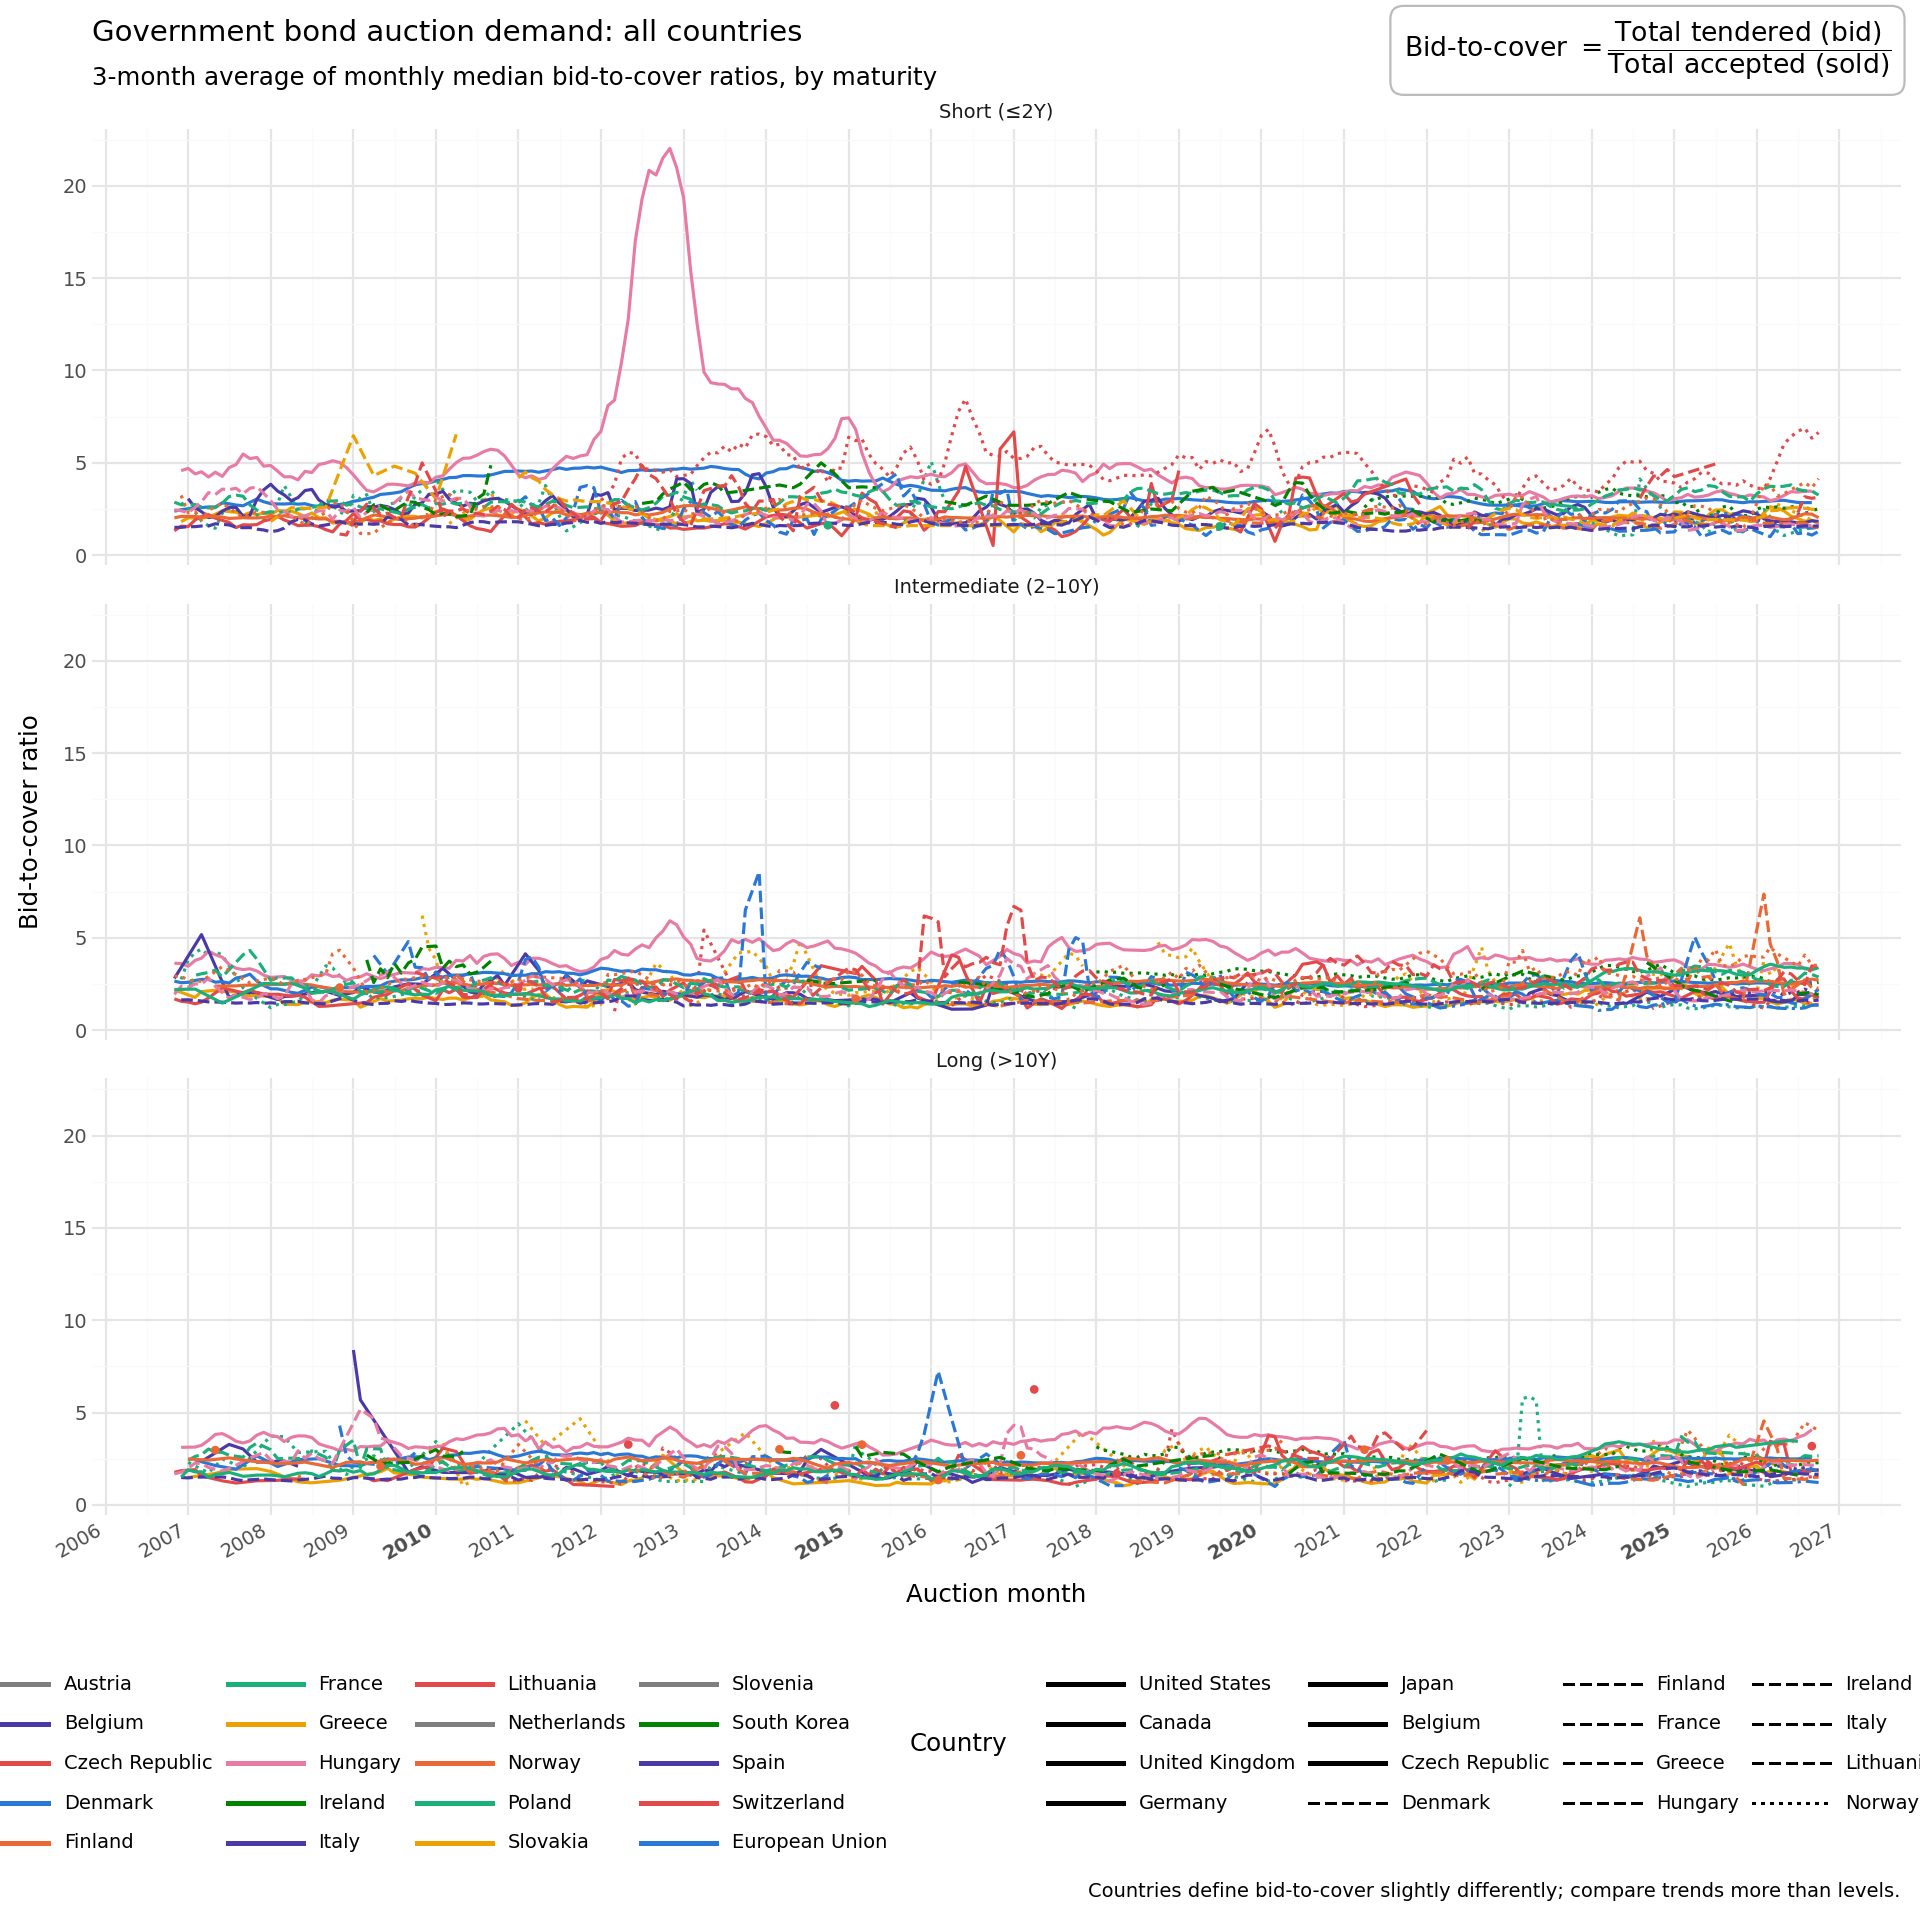
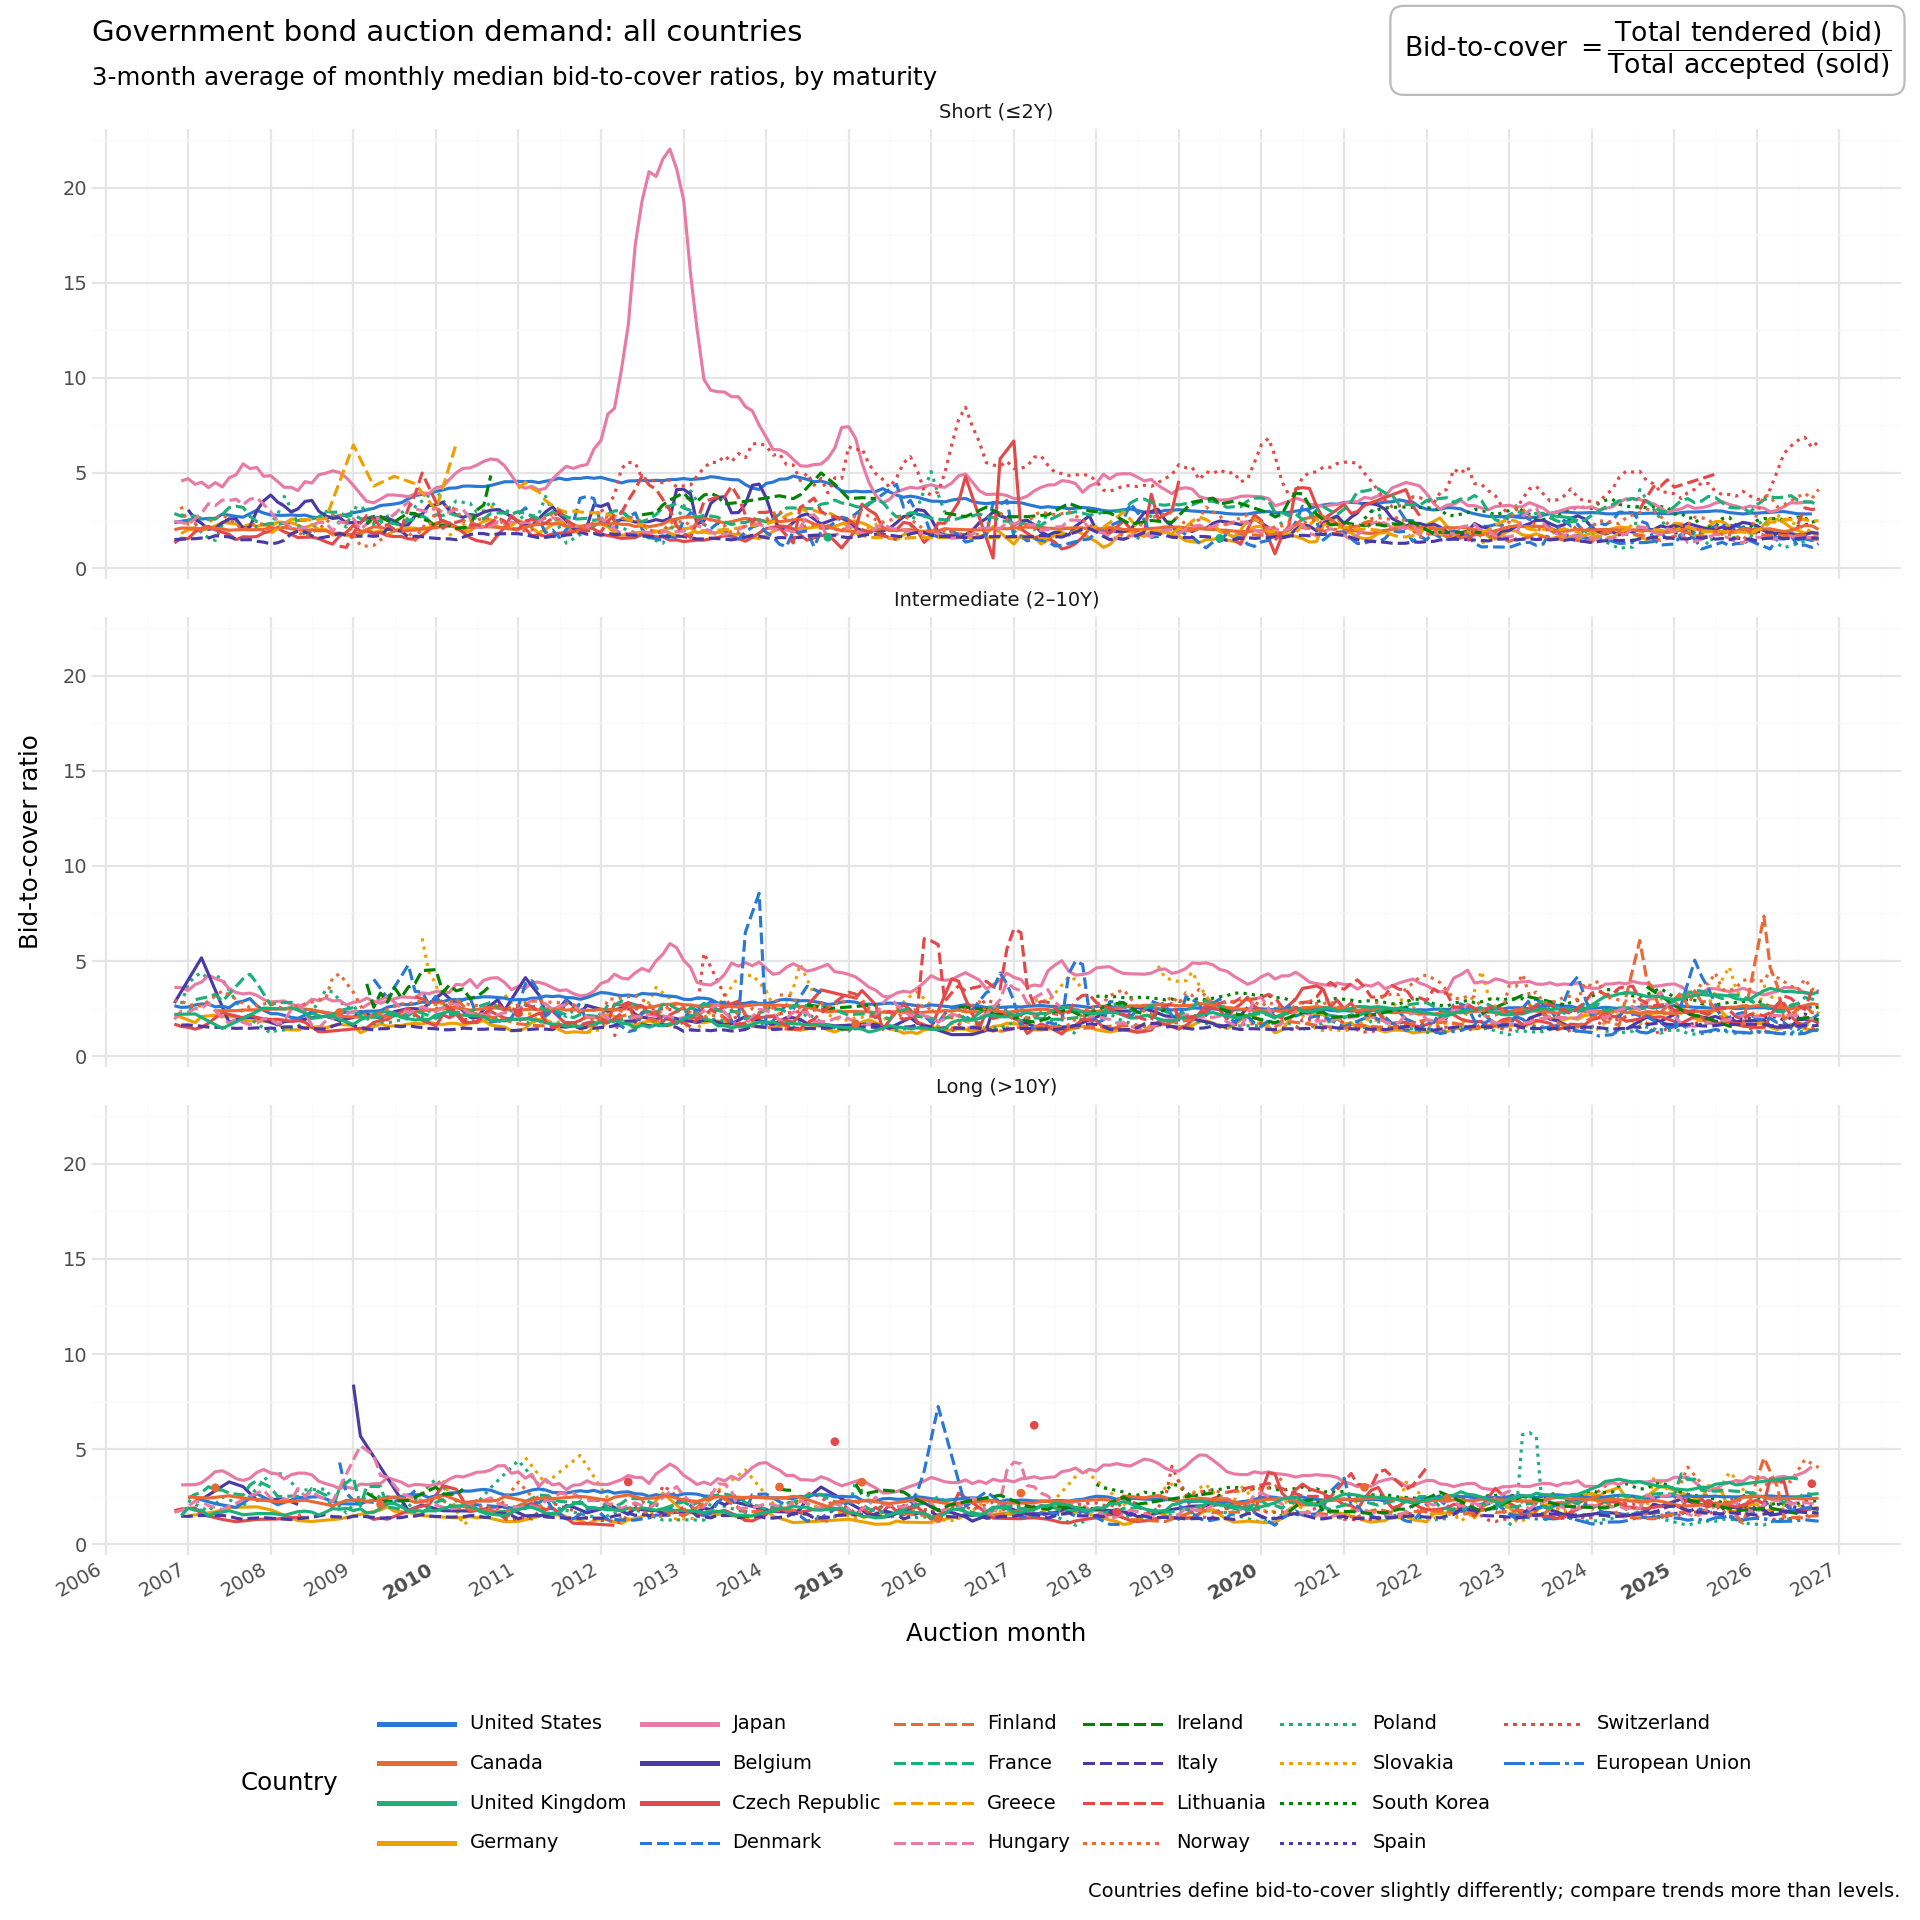
Fix the global bid-to-cover legend: one legend with each country's colour and line style, no countries missing or grey

diff --git a/common.py b/common.py
@@ -320,9 +320,14 @@ def line_chart(data, y, color, title, subtitle, ylab, caption, y_limits=None, fa
         data[color] = data[color].cat.remove_unused_categories()
         present = list(data[color].cat.categories)
         mapping = aes(x="month", y=y, color=color, linetype=color, group="segment")
+        # Values as lists with explicit breaks and limits: with dicts plotnine
+        # built two legends that didn't match (some countries grey, some
+        # missing). Identical breaks on both scales make it merge them.
         scales = [
-            scale_color_manual(values={c: colors[c] for c in present}, name=legend_title),
-            scale_linetype_manual(values={c: styles[c] for c in present}, name=legend_title),
+            scale_color_manual(values=[colors[c] for c in present], breaks=present, limits=present,
+                               name=legend_title),
+            scale_linetype_manual(values=[styles[c] for c in present], breaks=present, limits=present,
+                                  name=legend_title),
             # Same title and layout on both guides, so they merge into one
             # legend showing each country's colour and line style together.
             guides(color=guide_legend(ncol=6), linetype=guide_legend(ncol=6)),
@@ -723,8 +728,12 @@ def global_market_plots(markets: pd.DataFrame, country_order: list[str], start, 
         plot = (
             ggplot(one, aes(x="date", y="market_yield", color="country", linetype="country"))
             + geom_line(size=0.8)
-            + scale_color_manual(values={c: colors[c] for c in present}, name="Country")
-            + scale_linetype_manual(values={c: styles[c] for c in present}, name="Country")
+            # Lists with explicit breaks, so the two legends merge into one
+            # (see line_chart).
+            + scale_color_manual(values=[colors[c] for c in present], breaks=present, limits=present,
+                                 name="Country")
+            + scale_linetype_manual(values=[styles[c] for c in present], breaks=present, limits=present,
+                                    name="Country")
             + guides(color=guide_legend(ncol=5), linetype=guide_legend(ncol=5))
             + scale_x_datetime(date_breaks="1 month", date_labels="%b %Y", limits=(start, end))
             + labs(
